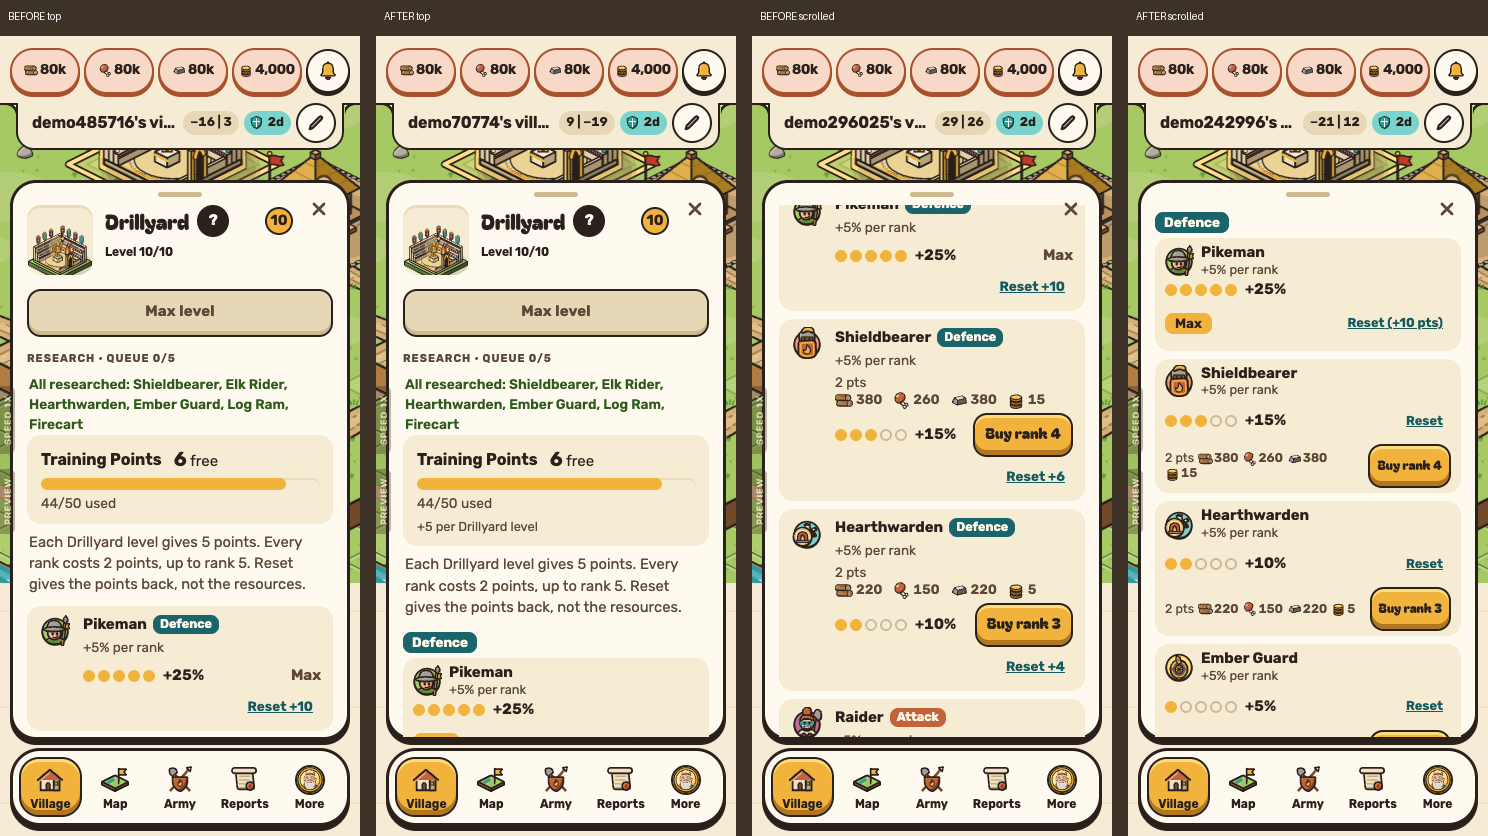
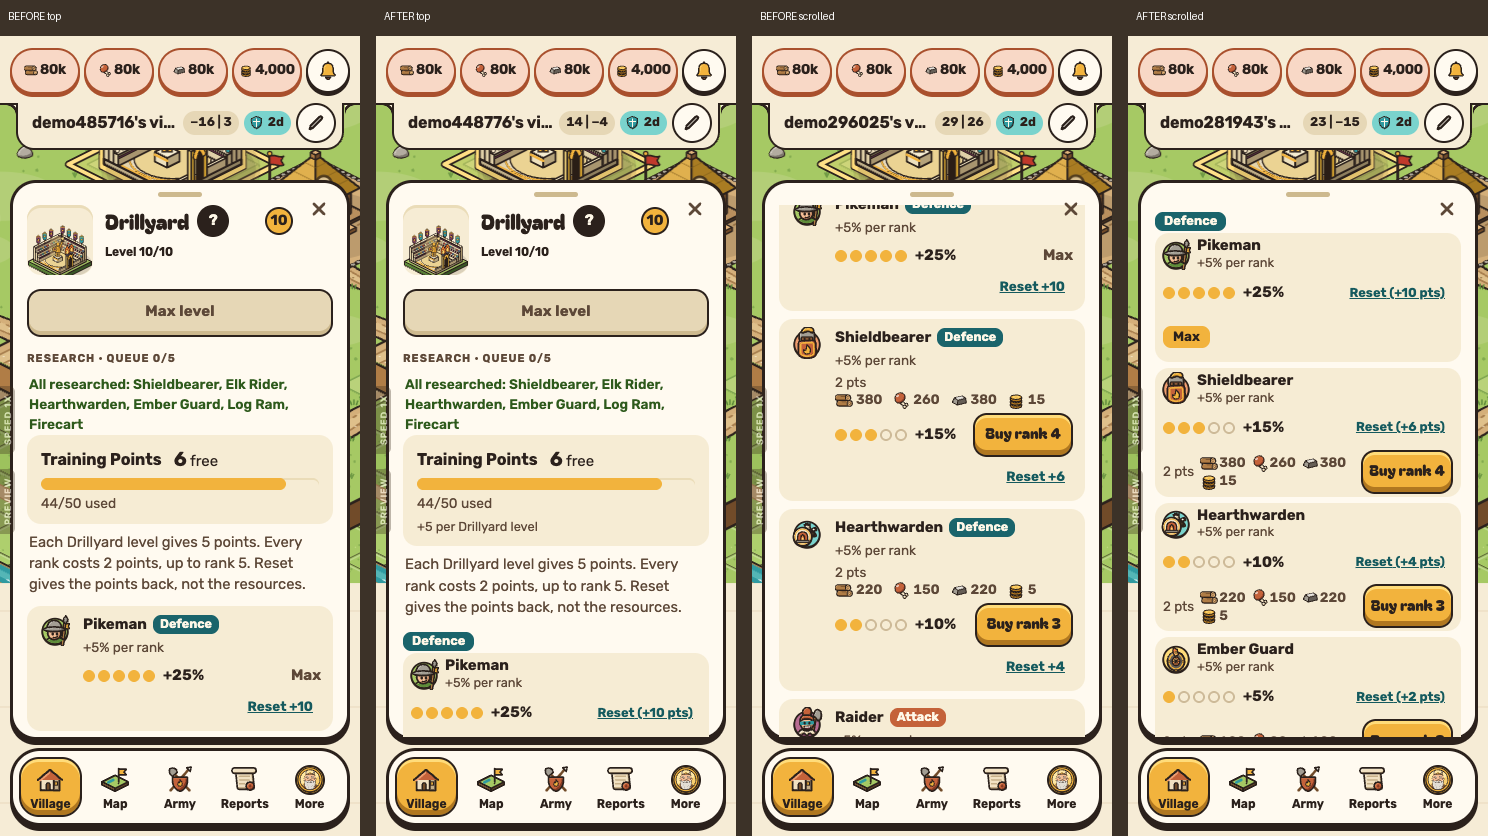
Drillyard Ranks: 3 columns, one-line cost, Reset in the middle row, group header above

diff --git a/apps/web/src/views/village/village.css b/apps/web/src/views/village/village.css
@@ -63,8 +63,8 @@ th[scope='row'] {
 }
 
 .vv-legend .token {
-  width: 26px;
-  height: 26px;
+  width: 24px;
+  height: 24px;
   border: 0;
   box-shadow: none;
 }
@@ -1153,18 +1153,23 @@ th[scope='row'] {
   color: var(--on-surface-muted);
 }
 
-/* Ranks: one labelled row per role (Defence, Attack, Scouting, Breach), the cards of that role beside / under its label.
-   Every card has the same three rows: unit + what a rank gives, dots + bonus, then the cost with Buy or the Max tag with Reset. */
-.drill-grp {
+/* Ranks: one labelled block per role (Defence, Attack, Scouting, Breach): a small header line, then its cards at full width.
+   Every card has the same three rows: unit + what a rank gives, dots + bonus (+ Reset), then the cost with Buy or the Max tag. */
+/* The groups sit in a 3-column grid; a group takes as many columns as it has cards (up to 3), so Scouting (1) and Breach (2) share a row */
+.drill-groups {
   display: grid;
-  grid-template-columns: 84px minmax(0, 1fr);
-  align-items: start;
-  gap: 4px 10px;
-  margin-bottom: 3px;
+  grid-template-columns: repeat(3, minmax(0, 1fr));
+  gap: 2px 8px;
+}
+
+.drill-grp {
+  grid-column: span var(--span, 3);
+  min-width: 0;
 }
 
 .drill-gh {
-  margin: 6px 0 0;
+  margin: 0 0 2px;
+  line-height: 1;
 }
 
 /* Filled tag (no outline, no side stripe); one colour per role */
@@ -1174,7 +1179,7 @@ th[scope='row'] {
   border-radius: 8px;
   background: var(--c-teal-hi);
   color: var(--c-ink);
-  font: 700 0.84rem/1.5 var(--font);
+  font: 700 0.8rem/1.4 var(--font);
 }
 
 .drill-tag.is-might {
@@ -1199,8 +1204,8 @@ th[scope='row'] {
 
 .drill-units {
   display: grid;
-  grid-template-columns: repeat(4, minmax(0, 1fr));
-  gap: 8px;
+  grid-template-columns: repeat(var(--span, 3), minmax(0, 1fr));
+  gap: 6px 8px;
   margin: 0;
   padding: 0;
   list-style: none;
@@ -1209,16 +1214,16 @@ th[scope='row'] {
 .drill-uc {
   display: grid;
   grid-template-rows: auto auto minmax(30px, auto);
-  gap: 1px;
+  gap: 0;
   min-width: 0;
-  padding: 5px 10px;
+  padding: 3px 8px;
   border-radius: 14px;
   background: var(--surface-2);
 }
 
 .drill-top .drill-icon {
-  width: 28px;
-  height: 28px;
+  width: 26px;
+  height: 26px;
 }
 
 .drill-top {
@@ -1228,15 +1233,21 @@ th[scope='row'] {
   min-width: 0;
 }
 
+/* Name and what a rank gives on one line (a phone has room for two, see below) */
 .drill-who {
   display: flex;
-  flex-direction: column;
+  align-items: baseline;
+  gap: 0 8px;
   min-width: 0;
   line-height: 1.25;
 }
 
 .drill-fx {
+  min-width: 0;
+  overflow: hidden;
   font-size: 0.8rem;
+  text-overflow: ellipsis;
+  white-space: nowrap;
   color: var(--on-surface-muted);
 }
 
@@ -1278,51 +1289,48 @@ th[scope='row'] {
   margin-left: auto;
 }
 
-/* Bottom row, same place on every card */
+/* Bottom row, same place on every card: the cost on one line with Buy, or the Max tag */
 .drill-bot {
   display: flex;
-  flex-wrap: wrap;
   align-items: center;
   justify-content: space-between;
-  gap: 2px 8px;
+  gap: 8px;
   min-width: 0;
 }
 
 .drill-tinfo {
   display: flex;
   flex: 1 1 0;
-  flex-wrap: wrap;
   align-items: center;
-  gap: 0 4px;
+  gap: 0 6px;
   min-width: 0;
-  font-size: 0.78rem;
-  line-height: 1.2;
+  font-size: 0.84rem;
+  line-height: 1.25;
+  white-space: nowrap;
   color: var(--on-surface-muted);
+}
+
+.drill-pts {
+  white-space: nowrap;
 }
 
 .drill-tinfo.is-warn {
   color: var(--warn);
+  white-space: normal;
 }
 
-/* Cost chips small enough for a 230 px card: points and three or four numbers in two short lines */
 .drill-tinfo .cost {
-  display: contents;
+  flex-wrap: nowrap;
+  gap: 0 5px;
 }
 
 .drill-tinfo .cost-item {
   gap: 1px;
 }
 
-
-.drill-tinfo .inline-icon {
-  width: 15px;
-  height: 15px;
-}
-
 .drill-bot .btn {
-  min-height: 28px;
-  padding: 0 7px 2px;
-  font-size: 0.8rem;
+  min-height: 30px;
+  padding: 0 6px 2px;
   white-space: nowrap;
 }
 
@@ -1360,15 +1368,27 @@ th[scope='row'] {
 
 /* Medium widths: two cards across */
 @media (max-width: 1100px) {
-  .drill-units {
+  .drill-groups {
     grid-template-columns: repeat(2, minmax(0, 1fr));
+  }
+
+  .drill-grp {
+    grid-column: span min(var(--span, 2), 2);
+  }
+
+  .drill-units {
+    grid-template-columns: repeat(min(var(--span, 2), 2), minmax(0, 1fr));
   }
 }
 
 /* Phone: one column, the group label above its cards, bigger touch targets */
 @media (max-width: 600px) {
-  .drill-grp {
+  .drill-groups {
     grid-template-columns: 1fr;
+  }
+
+  .drill-grp {
+    grid-column: auto;
   }
 
   .drill-gh {
@@ -1377,6 +1397,25 @@ th[scope='row'] {
 
   .drill-units {
     grid-template-columns: 1fr;
+  }
+
+  .drill-who {
+    flex-direction: column;
+    align-items: flex-start;
+    gap: 0;
+  }
+
+  .drill-fx {
+    white-space: normal;
+  }
+
+  /* A phone card has Buy at 44 px high: the cost may take a second line rather than run under it */
+  .drill-tinfo {
+    white-space: normal;
+  }
+
+  .drill-tinfo .cost {
+    flex-wrap: wrap;
   }
 
   .drill-bot .btn {
@@ -2660,7 +2699,7 @@ th[scope='row'] {
 }
 
 .drill-compact .drill-howto {
-  margin: 0 2px 4px;
+  margin: 0 2px 3px;
   font-size: 0.82rem;
 }
 

diff --git a/apps/web/src/views/village/Drillyard.tsx b/apps/web/src/views/village/Drillyard.tsx
@@ -18,6 +18,7 @@ import {
 } from "@clanfire/engine";
 import type { RankTrack, UnitId } from "@clanfire/engine";
 import { useEffect, useRef, useState } from "react";
+import type { CSSProperties } from "react";
 import { takeResearchFocus } from "./drillFocus.ts";
 import { api, errorMessage } from "../../api.ts";
 import { Icon } from "../../art/Icon.tsx";
@@ -296,8 +297,9 @@ export function DrillyardPanel({ part }: { part?: "research" | "ranks" } = {}) {
         <>
           {!part && <DrillPoints />}
           <p className="drill-howto">{pointsRuleText()}</p>
+          <div className="drill-groups">
           {rankGroups(trained).map((group) => (
-            <section key={group.track} className="drill-grp" aria-label={`${group.label} ranks`}>
+            <section key={group.track} className="drill-grp" style={{ "--span": Math.min(group.units.length, 3) } as CSSProperties} aria-label={`${group.label} ranks`}>
               <h4 className="drill-gh">
                 <span className={`drill-tag is-${group.track}`}>{group.label}</span>
               </h4>
@@ -328,7 +330,7 @@ export function DrillyardPanel({ part }: { part?: "research" | "ranks" } = {}) {
                           </span>
                         </span>
                       </div>
-                      {/* Middle: the five dots and the bonus reached so far (Reset sits here while ranks are still buyable) */}
+                      {/* Middle: the five dots and the bonus reached so far (Reset sits here once ranks are bought) */}
                       <div className="drill-pr">
                         <span className="drill-pips" role="img" aria-label={`${def.name} ${name} rank ${rank} of ${RANK_MAX}`}>
                           {Array.from({ length: RANK_MAX }, (_, i) => (
@@ -338,25 +340,8 @@ export function DrillyardPanel({ part }: { part?: "research" | "ranks" } = {}) {
                         <strong className={`drill-bonus${rank === 0 ? " is-zero" : ""}`} title={`Now +${trackBonusPct(track, rank)}% (${trackEffect(track, u)})`}>
                           +{trackBonusPct(track, rank)}%
                         </strong>
-                        {rank > 0 && !atMax && (
+                        {rank > 0 && (
                           <button
-                              type="button"
-                              className="drill-reset"
-                              disabled={!respec?.ok || busy}
-                              title={respec && !respec.ok ? reasonText(respec) : `Reset: free, +${respec?.ok ? respec.refund : 0} points back`}
-                              aria-label={`Reset ${def.name} ${name}`}
-                              onClick={() => respec?.ok && void reset(u, track, respec.refund)}
-                            >
-                              Reset
-                            </button>
-                        )}
-                      </div>
-                      {/* Bottom, always in the same place: next cost and Buy, or the Max tag and Reset */}
-                      <div className="drill-bot">
-                        {atMax ? (
-                          <>
-                            <span className="drill-max">Max</span>
-                            <button
                               type="button"
                               className="drill-reset"
                               disabled={!respec?.ok || busy}
@@ -366,6 +351,13 @@ export function DrillyardPanel({ part }: { part?: "research" | "ranks" } = {}) {
                             >
                               Reset{respec?.ok ? ` (+${respec.refund} pts)` : ""}
                             </button>
+                        )}
+                      </div>
+                      {/* Bottom, always in the same place: next cost and Buy, or the Max tag */}
+                      <div className="drill-bot">
+                        {atMax ? (
+                          <>
+                            <span className="drill-max">Max</span>
                           </>
                         ) : (
                           <>
@@ -376,7 +368,7 @@ export function DrillyardPanel({ part }: { part?: "research" | "ranks" } = {}) {
                                 refusal
                               ) : (
                                 <>
-                                  {points} {points === 1 ? "pt" : "pts"}{" "}
+                                  <span className="drill-pts">{`${points} ${points === 1 ? "pt" : "pts"}`}</span>
                                   <Cost cost={RANK_COST[rank] ?? RANK_COST[RANK_MAX - 1]!} have={live.resources} />
                                 </>
                               )}
@@ -400,6 +392,7 @@ export function DrillyardPanel({ part }: { part?: "research" | "ranks" } = {}) {
               </ul>
             </section>
           ))}
+          </div>
         </>
       )}
       {dialog}

diff --git a/apps/web/test/drillyard.test.tsx b/apps/web/test/drillyard.test.tsx
@@ -137,6 +137,7 @@ test('a bought rank shows pips, the bonus now, Reset with the refund, and Max at
   assert.ok(html.includes(`Now +${Math.round(BREACH_BONUS * 2 * 100)}%`));
   assert.ok(html.includes('aria-label="Log Ram Breach rank 2 of 5"'));
   assert.ok(html.includes('aria-label="Reset Log Ram Breach"'), 'a part-bought rank can be reset');
+  assert.ok(html.includes(`Reset (+${RANK_POINTS[0]! + RANK_POINTS[1]!} pts)`), 'Reset with refund sits in the middle row');
   assert.ok(html.includes(`Reset (+${RANK_POINTS[0]! * RANK_MAX} pts)`), 'a maxed card shows the Max tag with Reset and its refund');
   assert.ok(html.includes('class="drill-max">Max<'));
 });

diff --git a/CHANGELOG.md b/CHANGELOG.md
@@ -2,7 +2,7 @@
 
 Rolling, human-readable history of notable changes, newest first. Lets any AI session (or person)
 pick up context without the old conversation. Full detail is in `git log`. See `AGENTS.md` for the rule.
-- 2026-11-20 **Drillyard Ranks, clearer** (branch `worktree-agent-a472f0019a12af305`, not merged, not pushed; web only, no rule or number changes). Cards are grouped in labelled role rows (Defence, Attack, Scouting, Breach; read from `RANK_TRACKS_OF`) with the role colour once in the row header, so the Ember Guard appears under both Defence and Attack and both cards show the unit picture. Every card has the same three rows (picture + name + what a rank gives; five dots + bonus, muted +0%; cost with Buy, or a filled Max tag with Reset (+N pts)), four across on the desktop page so a fully researched level-10 Drillyard fits 1440x900 without scrolling, one column on a phone. The points bar gets a hint (+5 per Drillyard level). Shots in `design/proposals/drillyard-ranks/` (BEFORE/AFTER).
+- 2026-11-20 **Drillyard Ranks, clearer** (branch `worktree-agent-a472f0019a12af305`, not merged, not pushed; web only, no rule or number changes). Cards are grouped in labelled role rows (Defence, Attack, Scouting, Breach; read from `RANK_TRACKS_OF`) with the role colour once in the row header, so the Ember Guard appears under both Defence and Attack and both cards show the unit picture. Every card has the same three rows (picture + name + what a rank gives; five dots + bonus, muted +0%; cost with Buy, or a filled Max tag with Reset (+N pts)), three across on the desktop page (group label as a small header line above each row, one-line cost, Reset in the middle row) so a fully researched level-10 Drillyard fits 1440x900 without scrolling, one column on a phone. The points bar gets a hint (+5 per Drillyard level). Shots in `design/proposals/drillyard-ranks/` (BEFORE/AFTER).
 - 2026-11-20 **Auto mode works on goals** (`4f7f1d3`, merge `8420e52`, main, not pushed; owner picks). The balance slider and unit chips are gone: per village the player sets troop amounts (home + away + training count) and building levels (built + queued). Auto always works on the goal furthest behind (have/goal), first building what a goal needs (requirements, Longhouse under 10% room, Storehouse at 90% or when a step costs more than storage), skips units that still need research, waits and never skips, stops at "All goals reached". At most ONE auto job per queue (build queue and each training building); manual jobs keep the other slots. Old settings load as empty goals with auto off. API: `AutoSettingsRequest { on, troopGoals?, buildingGoals? }`, `AutoVillageDto` gains goals/have/levels/needsResearch/status. Tests: engine auto, server premium-tools, web auto-page. Shots `design/proposals/auto-goals/`.
 - 2026-11-20 **Rider roster** (`bd3be07`, merge `af7e57b`, main, not pushed; owner picks). Ember Guard (`knight`) is a heavy rider: Stables 8 + Town Hall 8, speed 5 -> 9, attack 140, defence 90/90 -> 50/40, terrain row mounted. Pathfinder trains at the Stables (Stables 1, cavalry; speed/cost unchanged). Hearthwarden costs 180 (was 260). Barracks: Pikeman, Shieldbearer, Raider; Stables: Pathfinder, Elk Rider, Hearthwarden, Ember Guard. No migration: Barracks batches queued before finish there. Sim (BALANCE §26): no style breaks; the turtle style no longer trains scouts (never builds Stables); Ember Guard still trained by no bot. Ember Guard art still shows a foot soldier (follow-up). Test `roster-migration.test.ts`; bots test horizon 45 -> 55 days (was flaky).
 - 2026-11-20 **Drillyard page redesign** (`009fbae`, branch `claude/charming-yalow-2ab2f4`, not merged, not pushed; web only). Owner: the research column ran past the frame, text was cut, the ranks panel was mostly empty. Now research is a full-width panel on top (short two-line cards, two across, cost or state with the button on the right; "Researched: …" and the queue count in its header, a header-only strip once all are researched) and ranks a full-width panel under it (two-line rows two across, Training Points bar in the header). Tabs and the side column are gone. Rank rows: short effect ("+5% per rank", full text as tooltip), bonus reached beside the dots, Reset under Buy; phone dots line up with Buy. Every state (6 research + 3 rank rows up to 0 + 10, running/queued/locked research, bought ranks) fits 1440x900 with no inner scrollbar or clipping, checked headless (WebKit); phone 360 checked. Before/after shots in `design/proposals/drillyard-layout/drillyard-*.png`.
